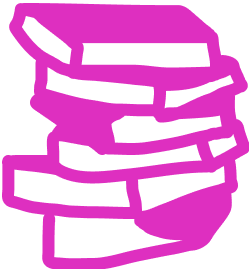
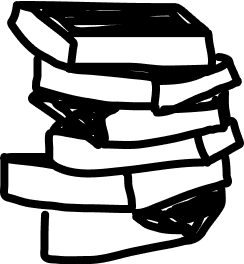
Fixed books in night mode

diff --git a/index.html b/index.html
@@ -304,7 +304,7 @@
             </svg> -->
 
             <svg class="hidden-object" id="books" viewBox="0 0 244 264" preserveAspectRatio="xMinYMid meet" data-sound="hover-sound-books" data-info='[]'>
-                <image href="media/objects/books_hidden.png" />
+                <image href="media/objects/books.png" id="books-img-src"/>
             </svg>
 
             <!-- Clock -->
@@ -329,7 +329,9 @@
 
                 <image href="media/objects/berkeley_flag.png" />
             </svg>
-            <svg class="object" id="couch" viewBox="0 0 1253 501" data-sound="hover-sound-couch" preserveAspectRatio="xMinYMid meet" data-info='[
+
+            <!-- 1253 501-->
+            <svg class="object" id="couch" viewBox="0 0 1280 528" data-sound="hover-sound-couch" preserveAspectRatio="xMinYMid meet" data-info='[
                     {"title": "I started a creative community with friends in August 2024."},
                     {"title": "In-between Creatives",
                     "text": "We started <a href=\"https://forms.gle/8B1LkRgaxrdQLZCr6\" target=\"_blank\">In-between Creatives</a> for people who wish they made more time for creativity amidst daily responsibilites. So far, we’ve hosted workshops with indie filmmaker Célin Do, poet and keynote speaker Tucker Bryant, and graphic novelist Malaka Gharib!",
@@ -337,7 +339,7 @@
                     "image_orientation": "portrait",
                     "link": "https://forms.gle/YfBFdQp63nK22ouv7"}
                 ]'>
-                <image href="media/objects/couch.png" />
+                <image href="media/objects/couch.png" id="couch-img-src" />
             </svg>
 
             <!-- Light -->

diff --git a/script.js b/script.js
@@ -497,6 +497,9 @@ function updateLightSetting() {
     const mapImgSrc = document.getElementById('map-img-src');
     const trainersImgSrc = document.getElementById('trainers-img-src');
     const speechBubbleImgSrc = document.getElementById('speech-bubble-img-src');
+    const couchImgSrc = document.getElementById('couch-img-src');
+    const booksImgSrc = document.getElementById('books-img-src');
+
 
 
     const popup = document.getElementById('popup');
@@ -510,7 +513,8 @@ function updateLightSetting() {
         mapImgSrc.setAttribute('href', 'media/objects/map.png');
         trainersImgSrc.setAttribute('href', 'media/objects/trainers.png');
         speechBubbleImgSrc.setAttribute('href', 'media/other/speech_bubble.png');
-
+        couchImgSrc.setAttribute('href', 'media/objects/couch.png');
+        booksImgSrc.setAttribute('href', 'media/objects/books.png');
 
         background.style.background = 'white';
         document.documentElement.style.setProperty('--pointer-cursor', "url('media/icons/pointer.png'), auto");
@@ -529,6 +533,8 @@ function updateLightSetting() {
         mapImgSrc.setAttribute('href', 'media/objects/map_night.png');
         trainersImgSrc.setAttribute('href', 'media/objects/trainers_night.png');
         speechBubbleImgSrc.setAttribute('href', 'media/other/speech_bubble_night.png');
+        couchImgSrc.setAttribute('href', 'media/objects/couch_night.png');
+        booksImgSrc.setAttribute('href', 'media/objects/books_night.png');
 
 
         background.style.background = 'black';

diff --git a/styles.css b/styles.css
@@ -200,7 +200,7 @@ body {
 }
 
 #couch {
-    width: 26%;
+    width: 26.3%;
     left: 32.65%;
     bottom: 27%;
 }
